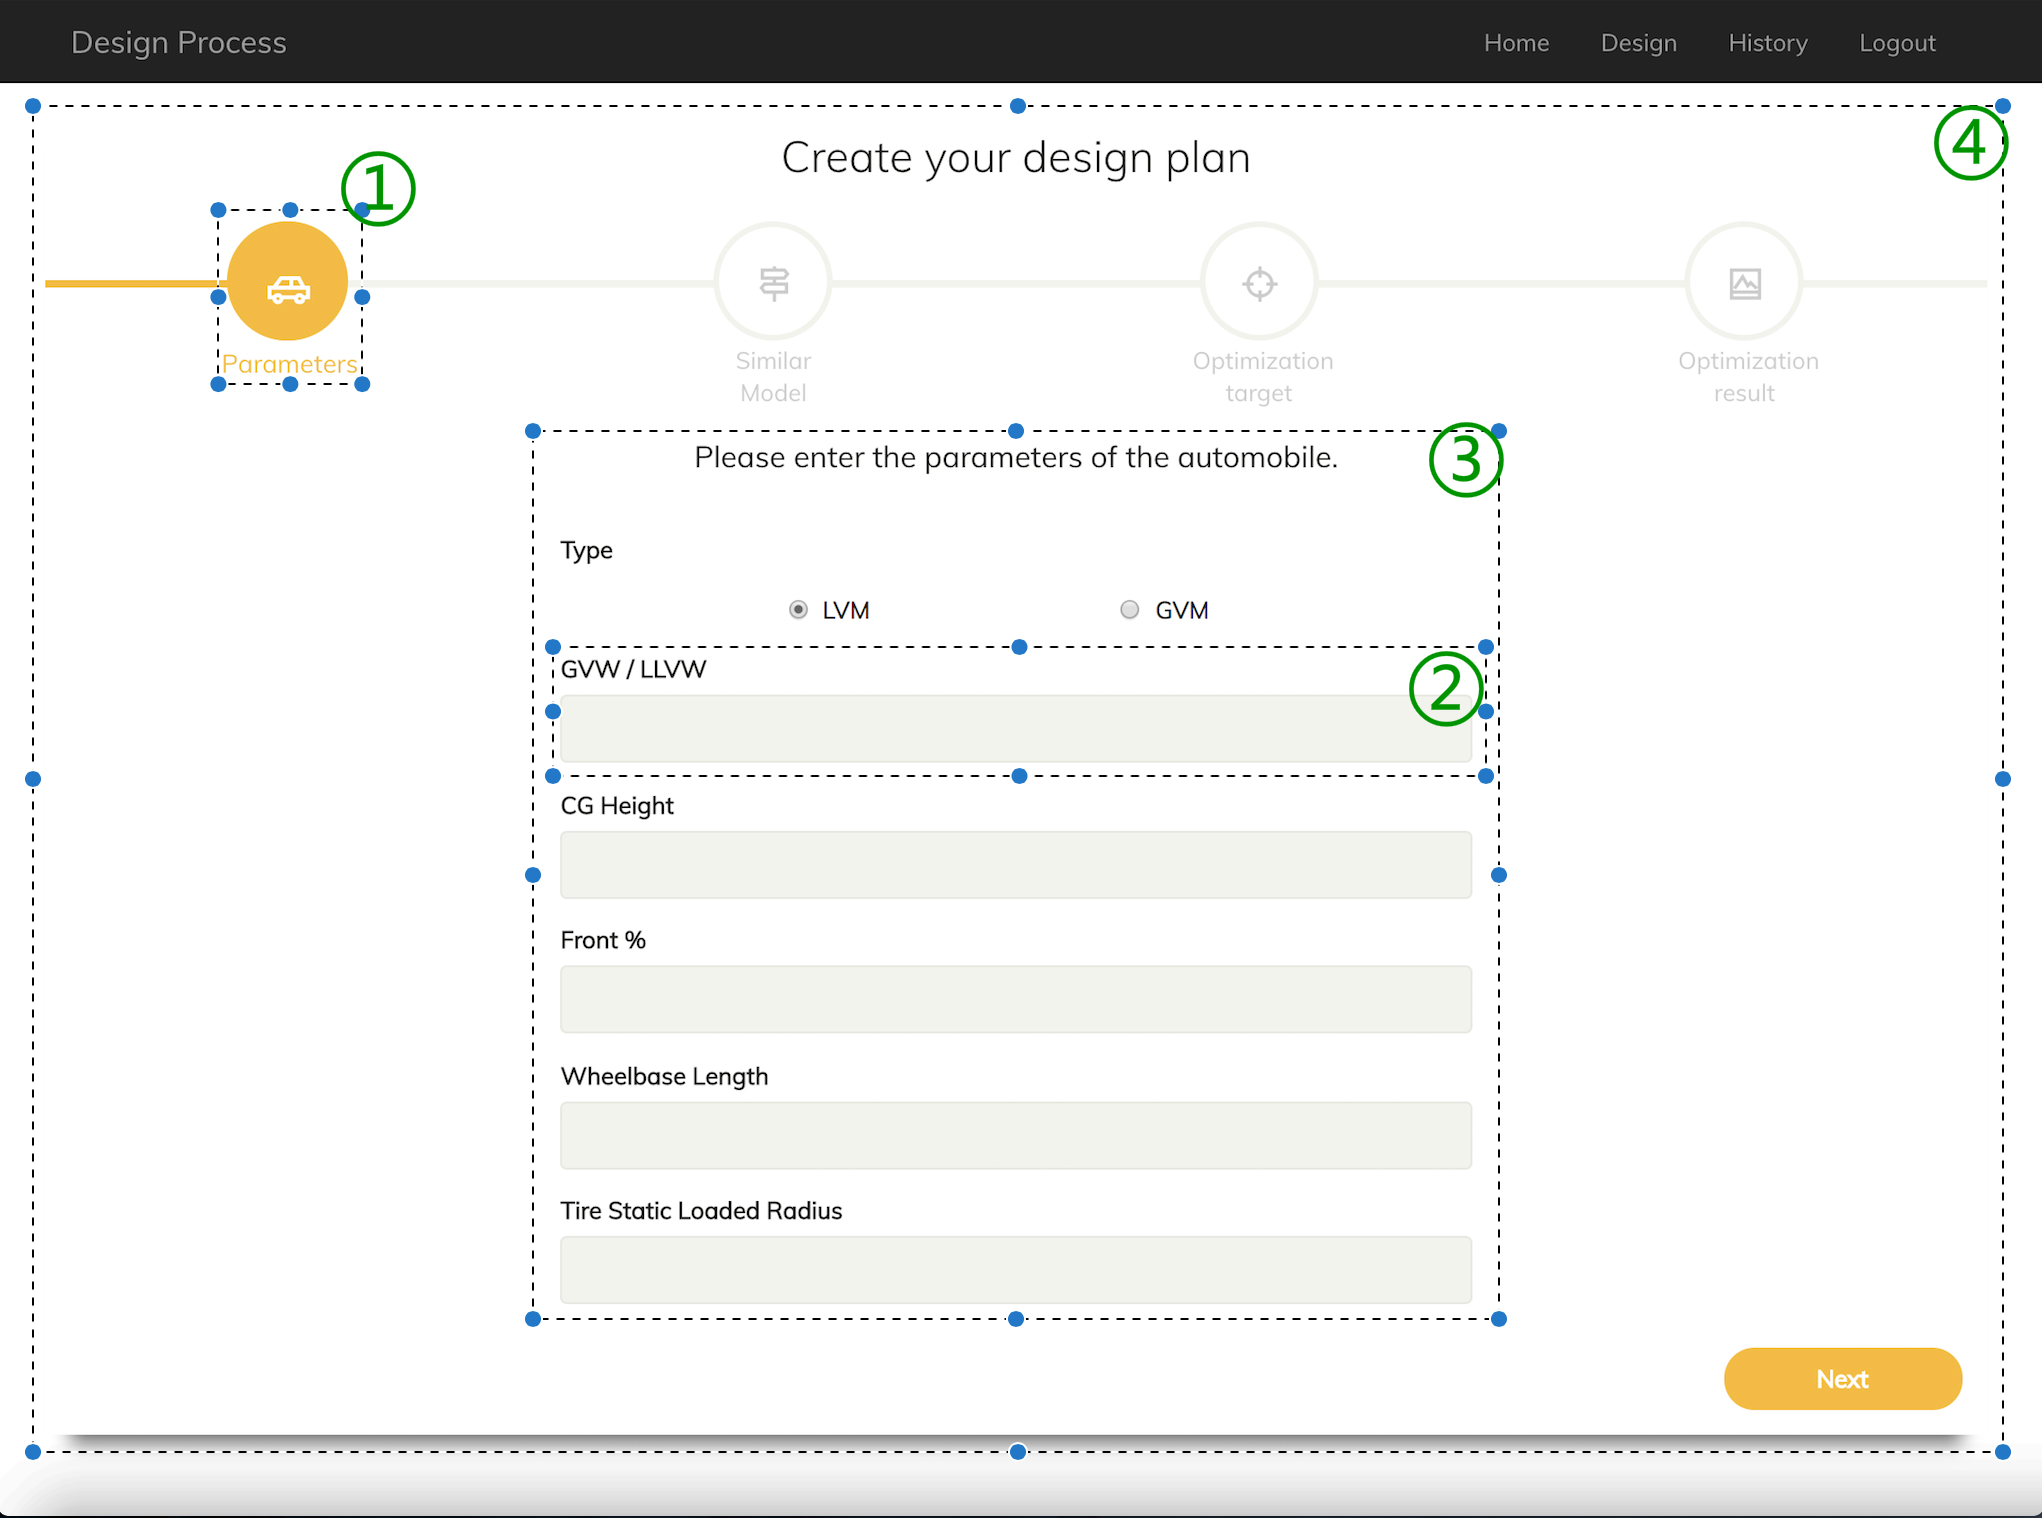
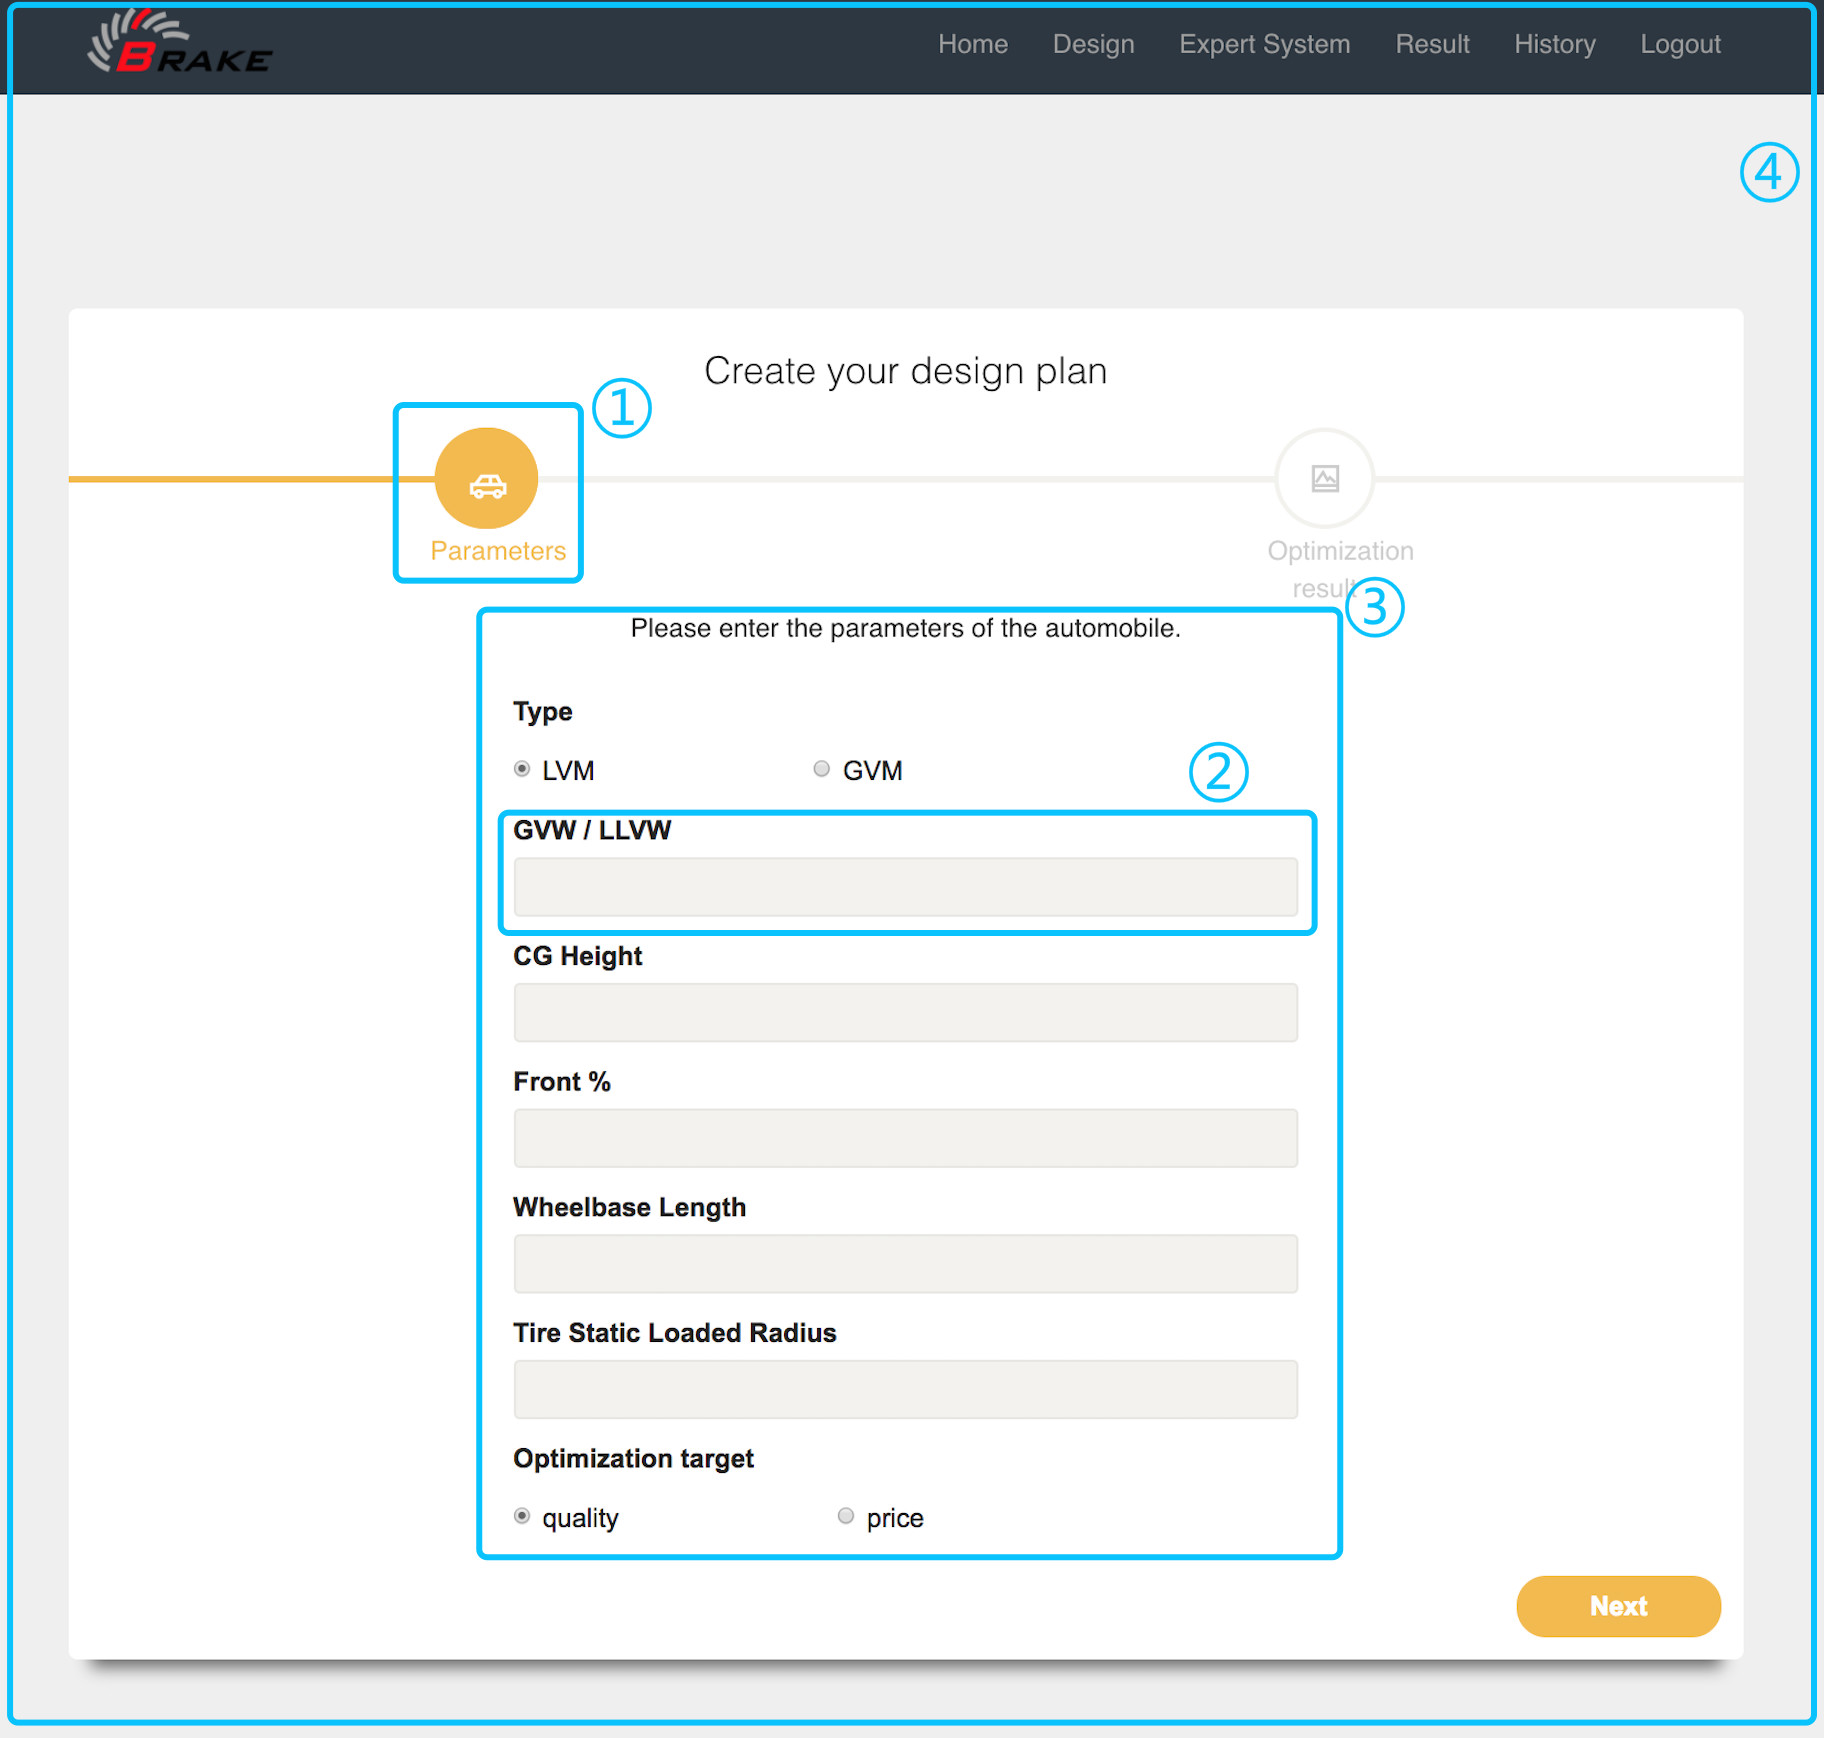
basicly complete

diff --git a/example.md b/example.md
@@ -8,14 +8,14 @@ This is a graphic interface example about component categorization we propsed in
 As shown below in Figure 1, this is a brake design system that performs a process of generating the optimal parameter combination. Four different components labelled by sequence numbers in Figure 1 respectively are selected by us to illustrate the component categorizations.
 
 <table class="image">
-<caption align="bottom">Figure 1</caption>
-<tr><td><img align="center" height="330" width="440" src ="https://github.com/Ada12/RCCE/raw/master/img/graphic_interface_example.png"/></td></tr>
+<caption align="bottom">Figure 1: Graphic Interface Example</caption>
+<tr><td><img align="center" height="600" width="570" src ="https://github.com/Ada12/RCCE/raw/master/img/graphic_interface_example.png"/></td></tr>
 </table>
 
 ##### Decoration Component
-Sequence numbers ① in Figure 1 is a `Decoration Component`, which displays a nice activatable button. Varied interface appears by passing in different parameters, and several components ① can compose an `Intent Component`: a step bar. 
+Sequence number ① in Figure 1 is a `Decoration Component`, which displays a nice activatable button. Varied interface appears by passing in different parameters, and several components ① can compose an `Intent Component`: a step bar. 
 
-Here is a brief snippet of the code for components ①. Some functions and fragments are hidden, retain only the most explaining part. Among them，the parameters in **'Component.propTypes'** stand for the external interface that this component exposed, by way of passing in parameters, distinct different reused component is produced. These `Decoration Component` provide a better way for software reuse. 
+Here is a brief snippet of the code for components ①. Some functions and fragments are hidden, retain only the most explaining part. Among them，the parameters in **'Component.propTypes'** stand for the external interface that this component exposed, by way of passing in parameters, distinct different reused component is produced. These `Decoration Component` provide a better way for software reuse.  A `Decoration Component` is extremely dependent on its father component so that it only the **'render'** function exists but lacks its own state and event handler functions.
 
 ```jsx
 import React, { PropTypes as P } from 'react';
@@ -45,7 +45,7 @@ export default StepItem;
 ```
 
 ##### Atom Component
-Sequence numbers ② in Figure 1 is an `Atom Component`, it has its own state **'value'** to store the filling-in message and handler functions to handle the corresponding event and component lifecycle.
+Sequence number ② in Figure 1 is an `Atom Component`, it has its own state **'value'** to store the filling-in message and handler functions to handle the corresponding event like **'handleInputChange'** and component lifecycle functions like **'componentDidMount'**.
 
 ```jsx
 import React, { PropTypes as P } from 'react';
@@ -94,10 +94,11 @@ export default LabelInput;
 ```
 
 ##### Intent Component
-As we can see, several component ② can be combined into a more complex component, component ③. It is a `Intent Component`, 
+As we can see, several component ②, mutex radios and button can be combined into a more complex component, component ③. It is a `Intent Component`. Along with the own state and event handler functions listed below, there are several internal invoked `Atom Components` such as **'MutexRadio'** and **'LabelInput'** and third-party component library like **'Button'** available in the code snippet.
 
 ```jsx
 import React, { PropTypes as P } from 'react';
+import { Button } from 'antd';
 import MutexRadio from './mutex-radio';
 import LabelInput from './label-input';
 
@@ -137,7 +138,7 @@ class ParameterForm extends React.Component {
           <LabelInput label="Front %" validation={validation} onInputComplete={this.handleFComplete} />
           <LabelInput label="Wheelbase Length" validation={validation} onInputComplete={this.handleWLComplete} />
           <LabelInput label="Tire Static Loaded Radius" validation={validation} onInputComplete={this.handleTSLRComplete} />
-          <MutexRadio label="Type" options={optionsTarget} onChange={this.handelTargetChange} />
+          <MutexRadio label="Optimization target" options={optionsTarget} onChange={this.handelTargetChange} />
         </div>
         <Button type="primary" onClick={this.handleSubmit}/>
       </div>
@@ -155,4 +156,121 @@ export default ParameterForm;
 ```
 
 ##### Container Component
-Sequence numbers ④ in Figure 1 is a `Container Component`.
+Sequence number ④ in Figure 1 represents a kind of `Container Component`. Apart from having the capacities of `Intent Component`, some extra ability to communicate with external interfaces are the bridge joining the front-end to back-end. In this example, functions in **'mapDispatches'** are the outgoing requests, and variables in **'DesignContainer.propTypes'** accept external data.
+
+```jsx
+import React, { PropTypes as P } from 'react';
+import { connect } from 'react-redux';
+import { Button, message, Pagination, Table } from 'antd';
+
+// ==================
+// Import Components
+// ==================
+
+import NavigationBar from '../../components/navigation';
+import Steps from '../../components/Steps';
+import ParamForm from '../../components/parameter-form';
+const Step = Steps.Step;
+// ==================
+// Actions
+// ==================
+
+import DesignActions from '../../actions/design-actions';
+import BasicActions from '../../actions/basic-actions';
+// ==================
+// Map store states to props
+// ==================
+
+const mapStoreStateToProps = (state) => ({
+  dispatch: state.dispatch,
+  similarVehicle: state.design.similarVehicle,
+  optimaResult: state.design.optimaResult,
+});
+
+const mapDispatches = (dispatch) => ({
+  fn: {
+    getSimilarVehicle: (obj) => {
+      dispatch(DesignActions.getSimilarVehicle(obj));
+    },
+    getOptimaResult: (obj) => {
+      dispatch(DesignActions.getOptimaResult(obj));
+    },
+    getDownload: (obj) => {
+      dispatch(DesignActions.getDownload(obj));
+    },
+    handleNavClick: (index) => {
+      dispatch(BasicActions.getDownload(index));
+    },
+  },
+});
+
+class DesignContainer extends React.Component {
+  constructor(props) {
+    super(props);
+    this.state = {
+      current: 0,
+      paramFormObj: {},
+      optimaTarget: {},
+    };
+  }
+  componentDidMount() {
+  }
+  handleParamSubmit = (obj) => {};
+  handleTargetSubmit = (obj) => {};
+  handleNext = () => {};
+  handlePrev = () => {};
+  render() {
+    const steps = [
+      {
+        title: 'Parameters',
+      }, {
+        title: 'Optimization result',
+      },
+    ];
+    const { current } = this.state;
+    return (
+      <div className="app-container">
+        <NavigationBar
+              className="navigation-bar"
+              current={1}
+              onNavClick={this.props.fn.handleNavClick}
+            />
+        <Steps current={current}>
+          {steps.map(item => <Step key={item.title} title={item.title} />)}
+        </Steps>
+        <div className="step-content">
+          {(() => {
+            switch (this.state.current) {
+            case 0:
+              return (
+                <ParamForm
+                  classname="param-form"
+                  onSubmit={this.handleParamSubmit}
+                />
+              );
+              { /* other cases */ }
+            }
+          })()}
+        </div>
+        <div className="steps-action">
+          { /* other actions */ }
+        </div>
+      </div>
+    );
+  }
+}
+
+DesignContainer.propTypes = {
+  dispatch: P.func,
+  fn: P.object,
+  location: P.any,
+  history: P.any,
+  similarVehicle: P.array,
+  optimaResult: P.array,
+};
+// ==================
+// Export
+// ==================
+
+export default connect(mapStoreStateToProps, mapDispatches)(DesignContainer);
+```
